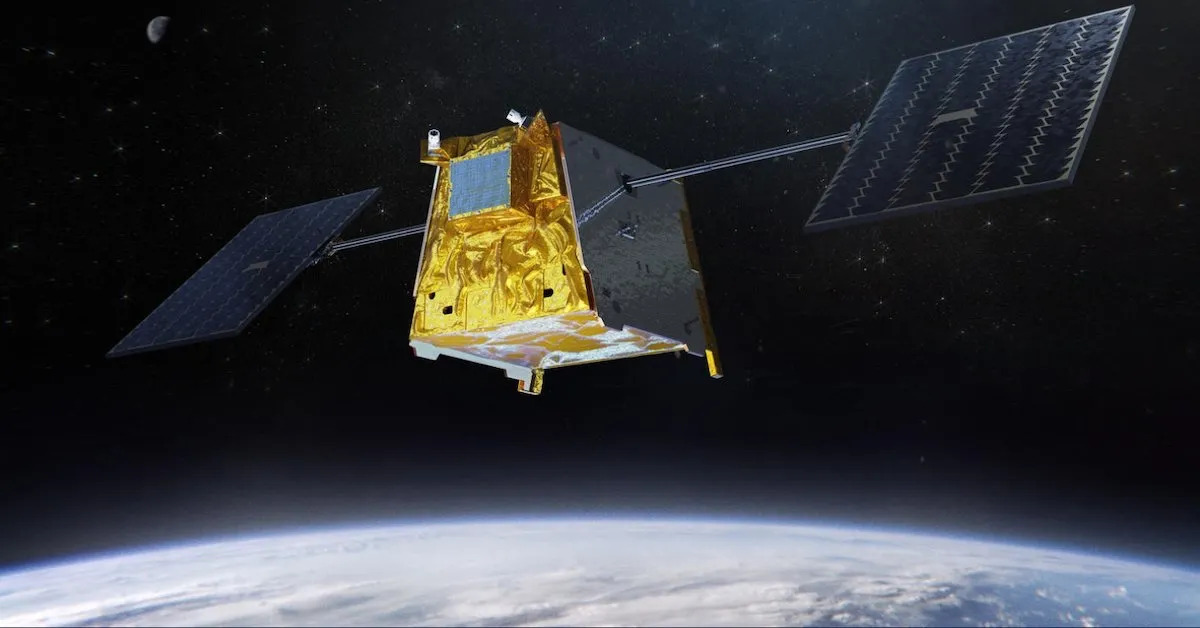
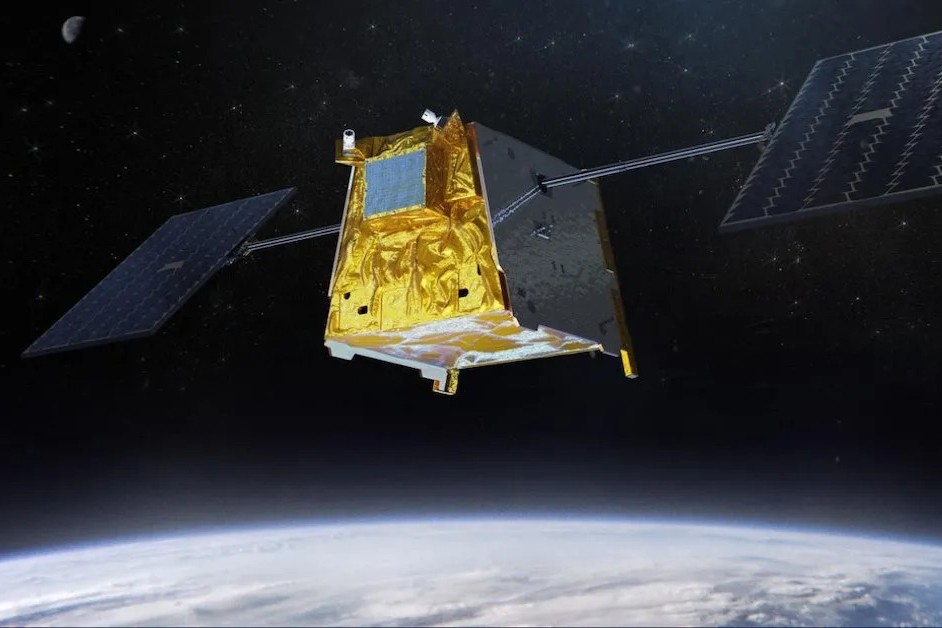
updated image cropping

diff --git a/_projects/odyssey.md b/_projects/odyssey.md
@@ -1,7 +1,7 @@
 ---
 layout: page
 title: Project Odyssey
-description: Lead systems engineer for ARES' first hybrid sounding rocket - 5 kN hybrid engine with air brakes, side hatch recovery; competing at AURC26 and IREC27
+description: Lead systems engineer for ARES' first hybrid sounding rocket - competing at AURC26 and IREC27
 img: assets/img/hot_fire_0.png
 importance: 3
 category: Rocketry & Space

diff --git a/_projects/gps.md b/_projects/gps.md
@@ -1,7 +1,7 @@
 ---
 layout: page
 title: GNSS receiver
-description: Custom GPS L1 band reciever with microwave LO, downconvering RF front end, and balanced IF stage with ACG
+description: Custom GPS L1 band reciever with microwave LO, downconvering RF front end, and balanced IF stage with AGC
 img: assets/img/new_front_end.jpeg
 importance: 3
 category: Rocketry & Space
